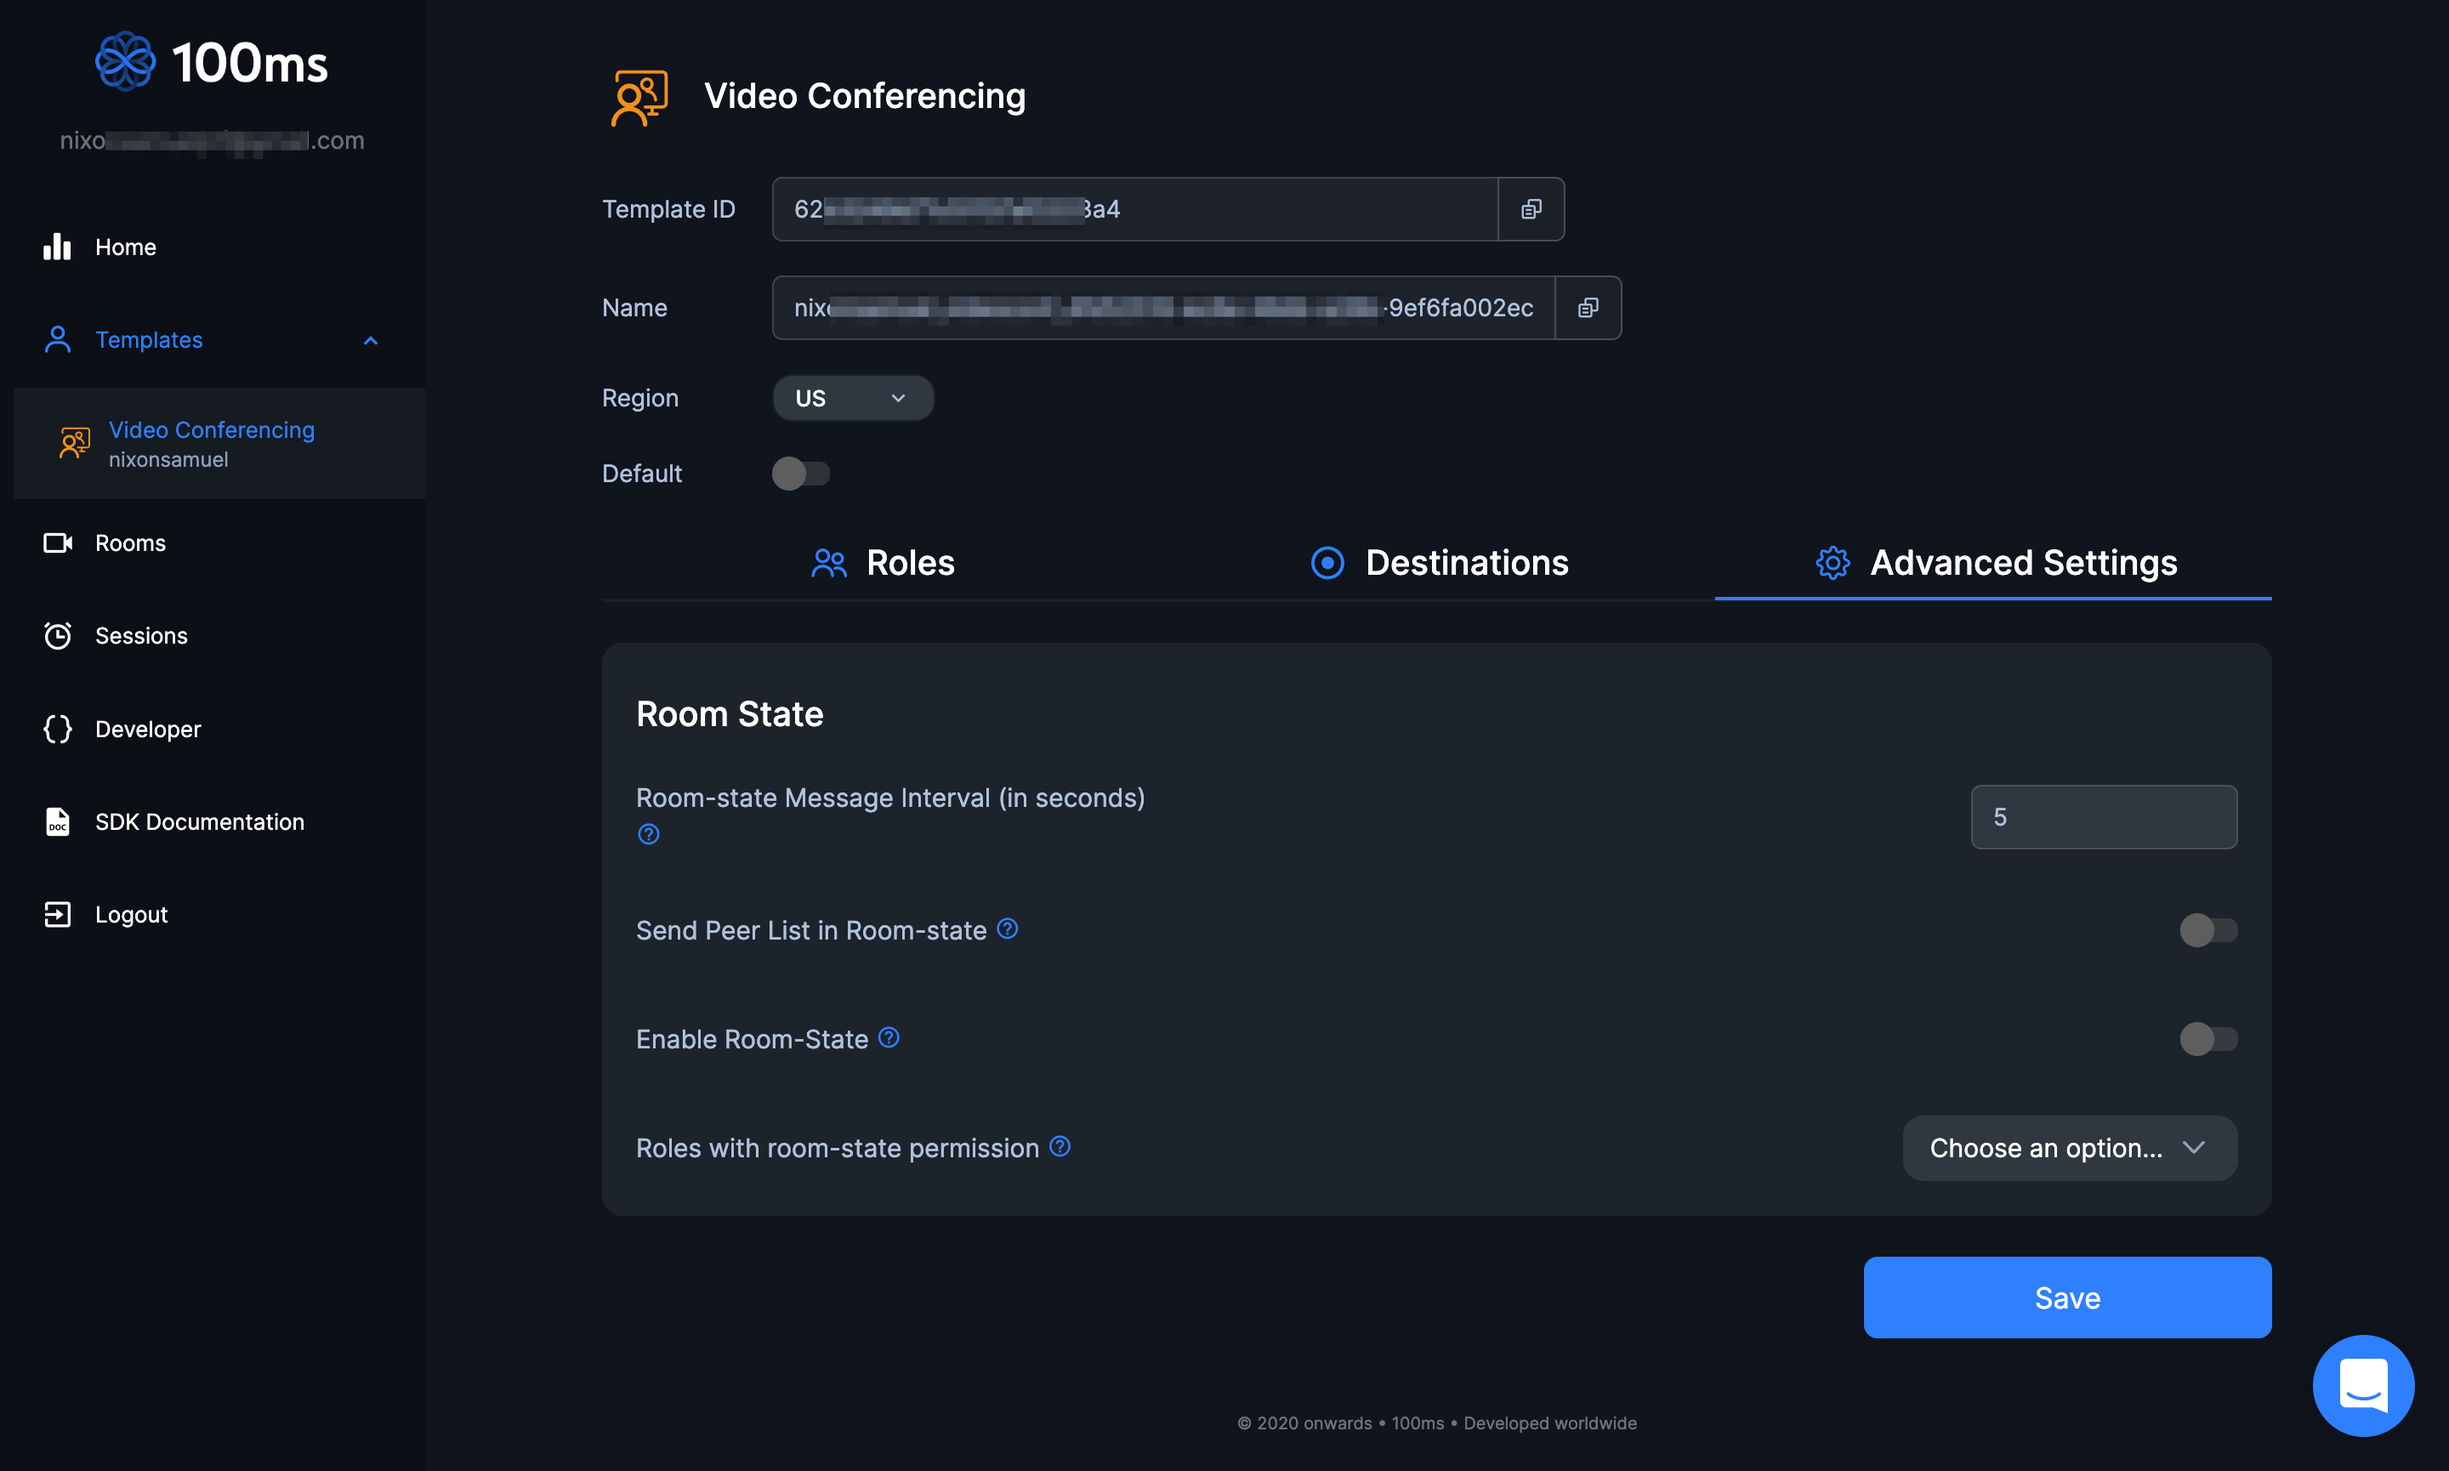
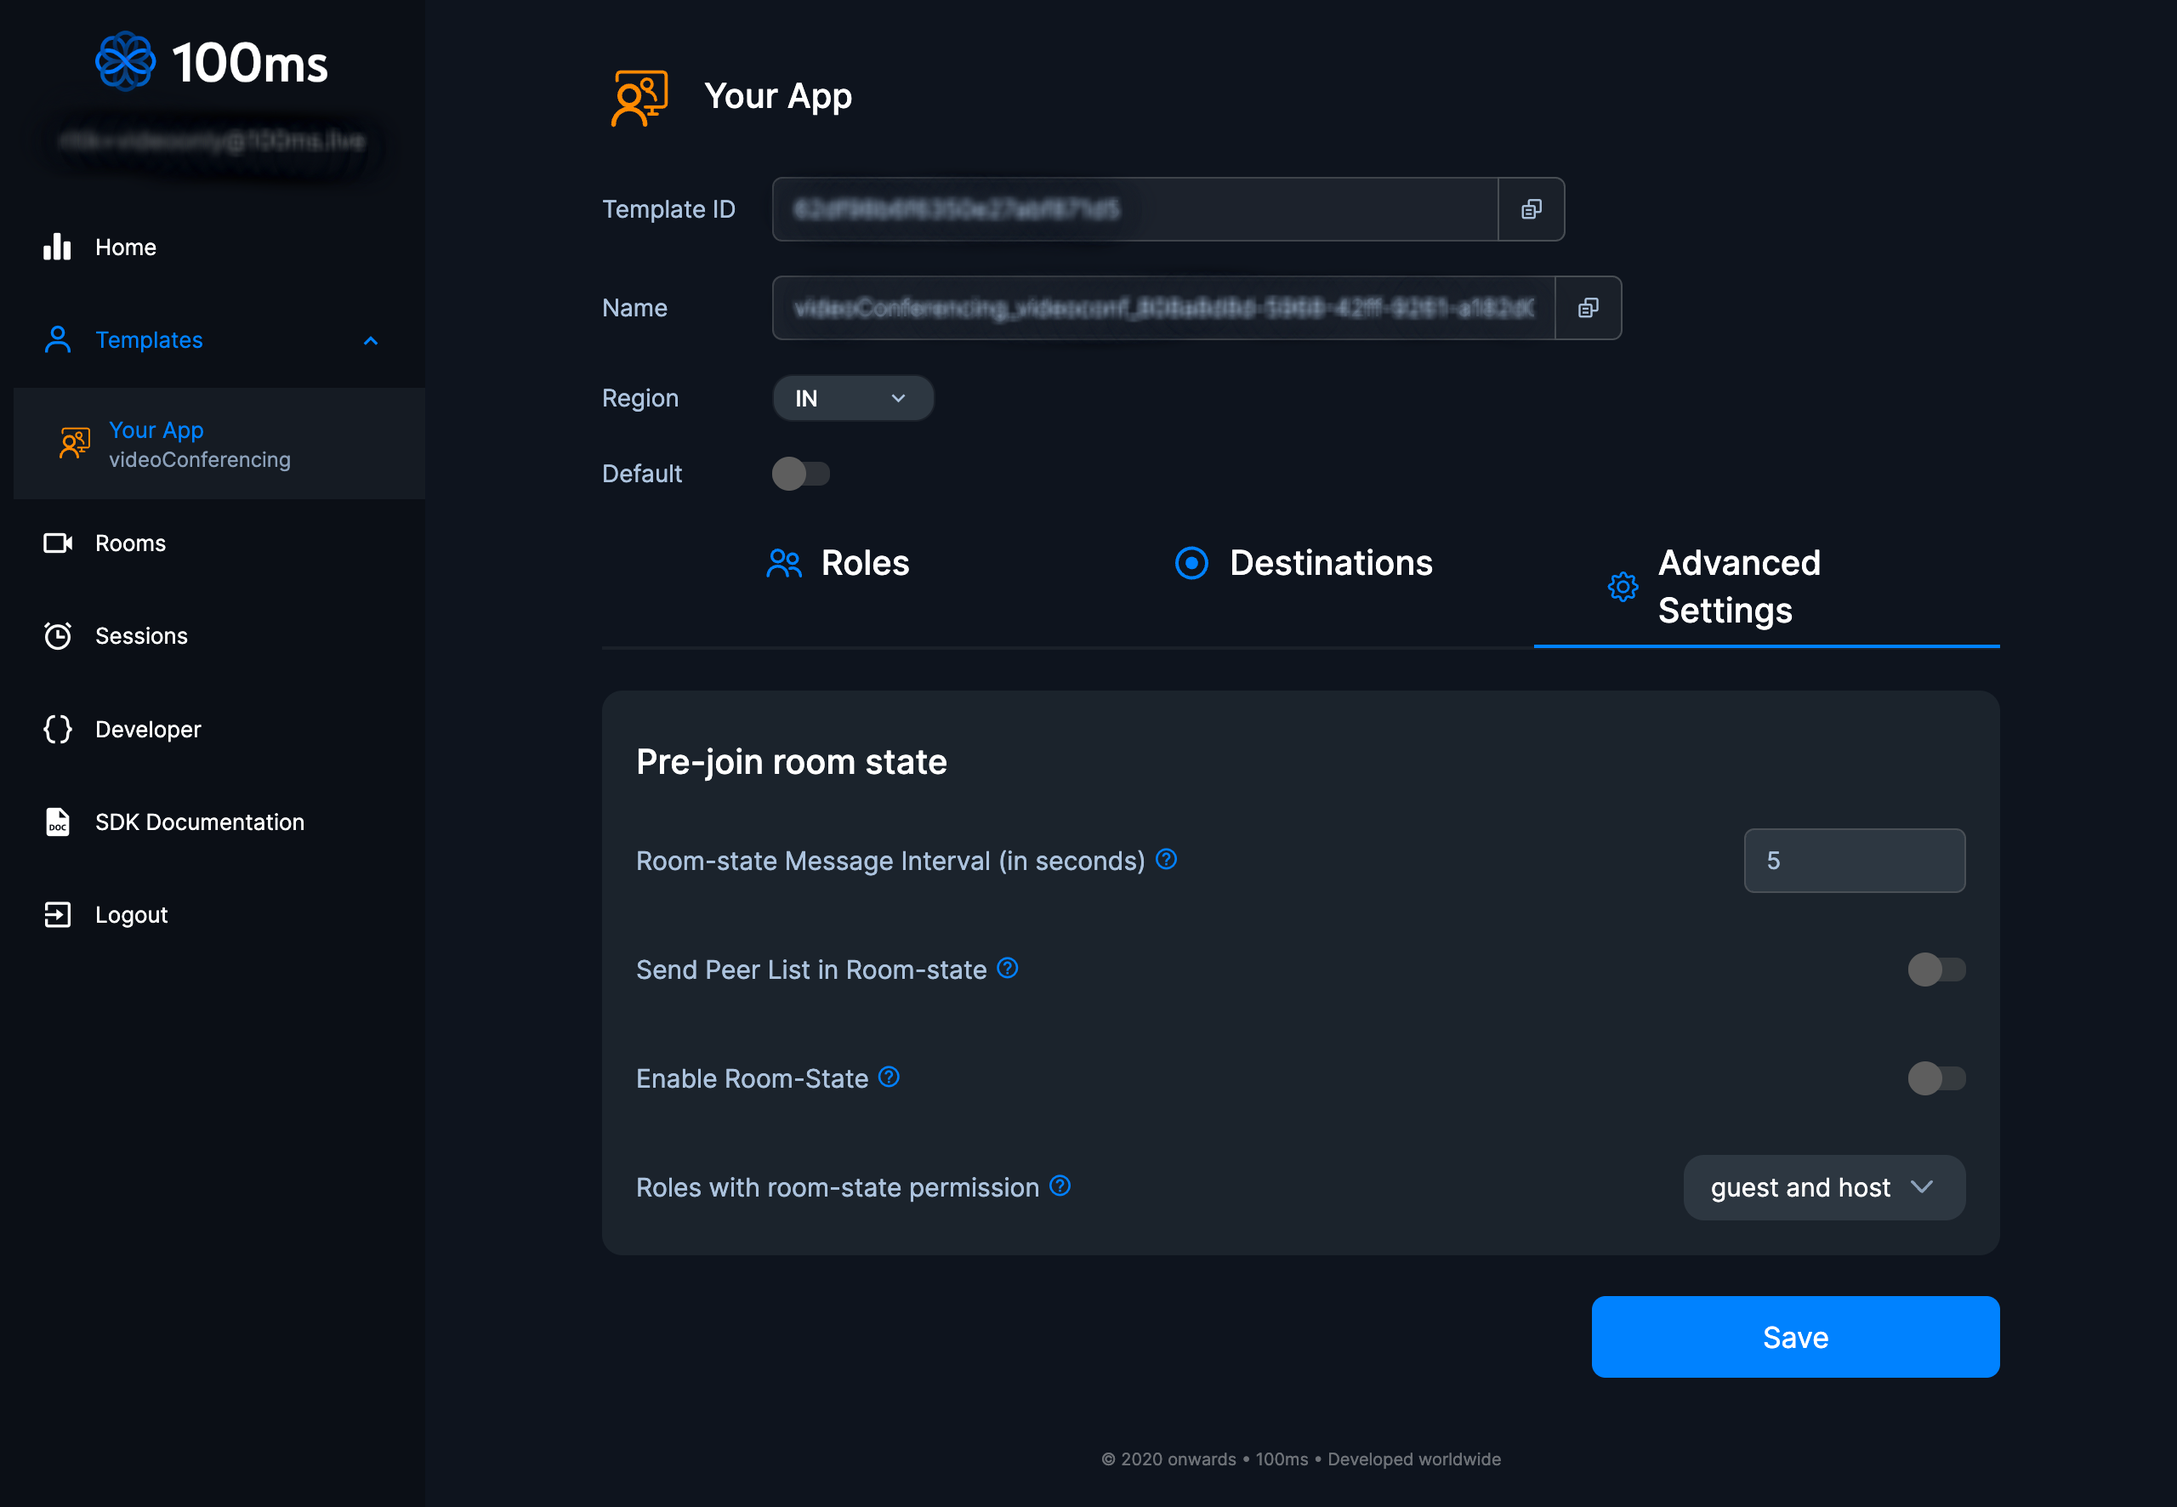
[Dashboard] "Room state" in the dashboard is confusing -> rename to "Pre-join room state" + Docs (#666)
* renamed room state to Pre-join room state

* Update common/templates-and-roles.md

* updated image

* newline in gitignore

diff --git a/common/templates-and-roles.md b/common/templates-and-roles.md
@@ -63,9 +63,11 @@ As the name suggests, Advanced Settings section contains more settings and contr
 
 ![Template](/docs/docs/v2/advanced-settings.png)
 
-### Room State
+### Pre-join room state
 
-Room state settings control the strategy of sending room state updates sent to our client SDK consumers.
+Pre-join room state enables you to build a "preview" screen which shows the state of the room before joining. This room state includes a list of peers, which can be used to show who is in the room. Pre-join room state also includes recording and streaming state.
+
+Pre-join room state settings define strategy of sending state updates to client SDKs.
 
 | Setting                                  | Description                                                                                                                                                                                                                                        |
 | ---------------------------------------- | -------------------------------------------------------------------------------------------------------------------------------------------------------------------------------------------------------------------------------------------------- |
